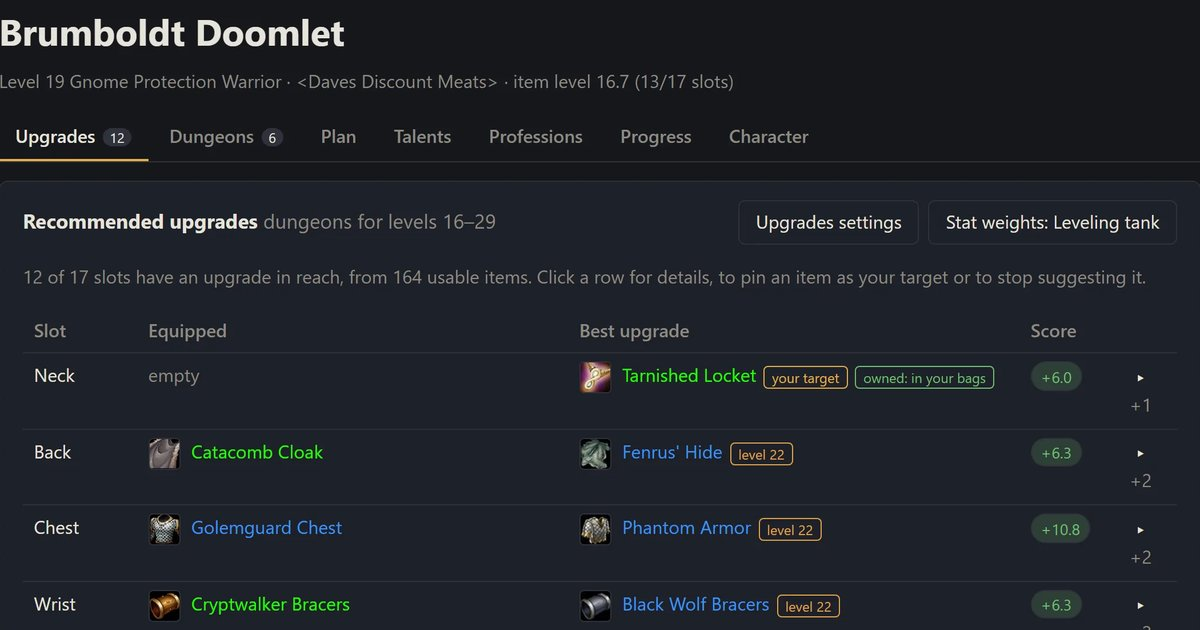
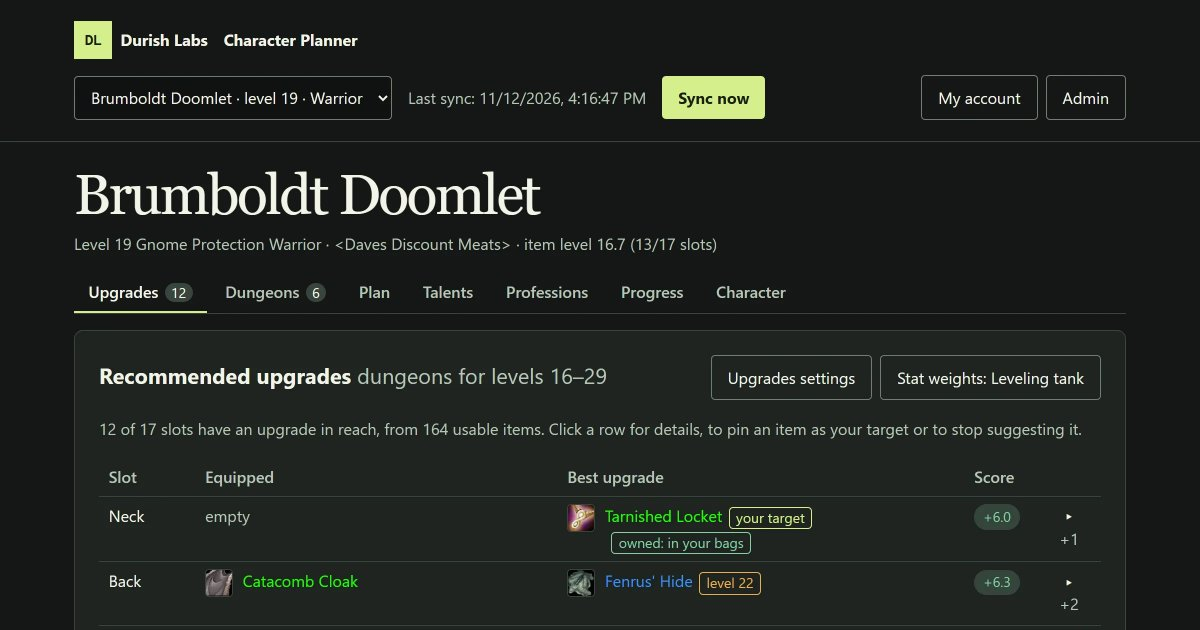
Refresh Planner previews and accessible brand labels

diff --git a/public/character-planner.html b/public/character-planner.html
@@ -24,7 +24,7 @@
 <body>
   <a class="skip" href="#main">Skip to content</a>
   <header class="masthead wrap">
-    <a class="brand" href="./" aria-label="Durish Labs home"><span class="mark" aria-hidden="true">DL</span> Durish Labs</a>
+    <a class="brand" href="./" aria-label="DL Durish Labs home"><span class="mark" aria-hidden="true">DL</span> Durish Labs</a>
     <nav aria-label="Main navigation">
       <a href="./#projects">All projects</a>
       <a href="https://github.com/thechainercygnus/character-planner">GitHub</a>

diff --git a/public/404.html b/public/404.html
@@ -13,7 +13,7 @@
 <body>
   <a class="skip" href="#main">Skip to content</a>
   <header class="masthead wrap">
-    <a class="brand" href="/" aria-label="Durish Labs home"><span class="mark" aria-hidden="true">DL</span> Durish Labs</a>
+    <a class="brand" href="/" aria-label="DL Durish Labs home"><span class="mark" aria-hidden="true">DL</span> Durish Labs</a>
     <nav aria-label="Main navigation">
       <a href="/#projects">Projects</a>
       <a href="https://github.com/thechainercygnus">GitHub</a>

diff --git a/public/index.html b/public/index.html
@@ -24,7 +24,7 @@
 <body>
   <a class="skip" href="#main">Skip to content</a>
   <header class="masthead wrap">
-    <a class="brand" href="./" aria-label="Durish Labs home"><span class="mark" aria-hidden="true">DL</span> Durish Labs</a>
+    <a class="brand" href="./" aria-label="DL Durish Labs home"><span class="mark" aria-hidden="true">DL</span> Durish Labs</a>
     <nav aria-label="Main navigation">
       <a href="#projects">Projects</a>
       <a href="#about">About</a>

diff --git a/DESIGN.md b/DESIGN.md
@@ -170,7 +170,7 @@ on `--accent-soft`: don't show item names on a selected-row fill.
 
 ```html
 <header class="masthead">
-  <a class="brand" href="https://durishlabs.com/" aria-label="Durish Labs home">
+  <a class="brand" href="https://durishlabs.com/" aria-label="DL Durish Labs home">
     <span class="mark" aria-hidden="true">DL</span>
     <span class="brand-name">Durish Labs</span>
   </a>
